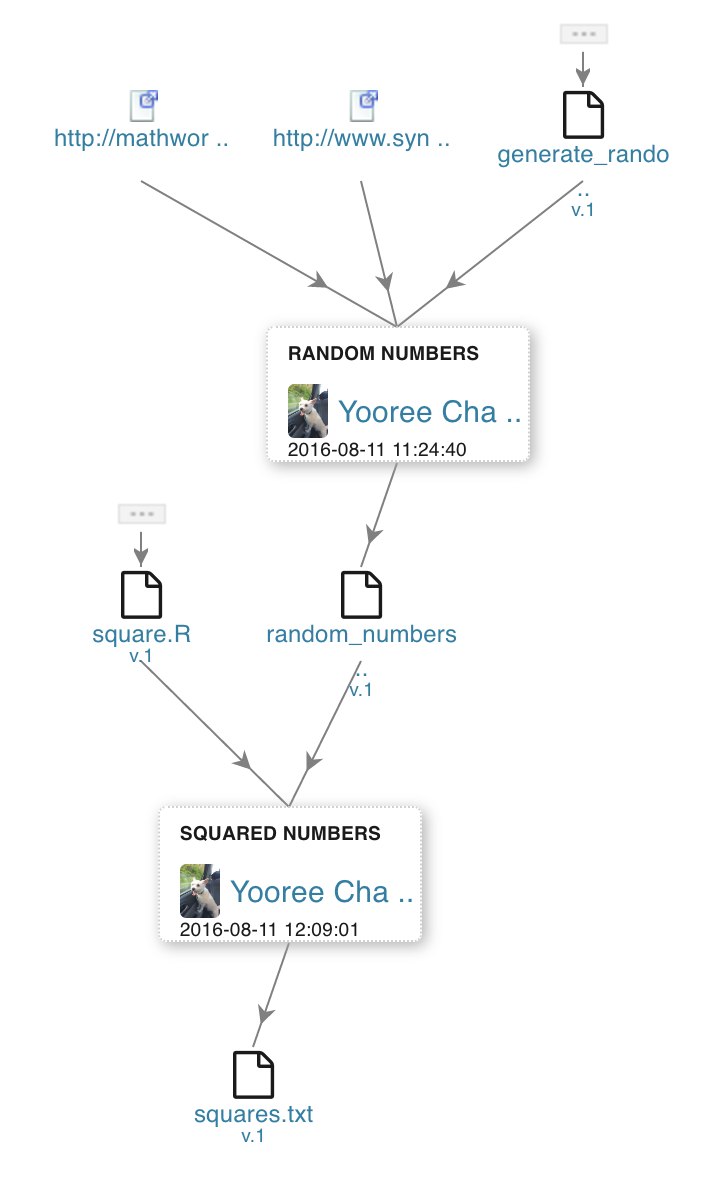
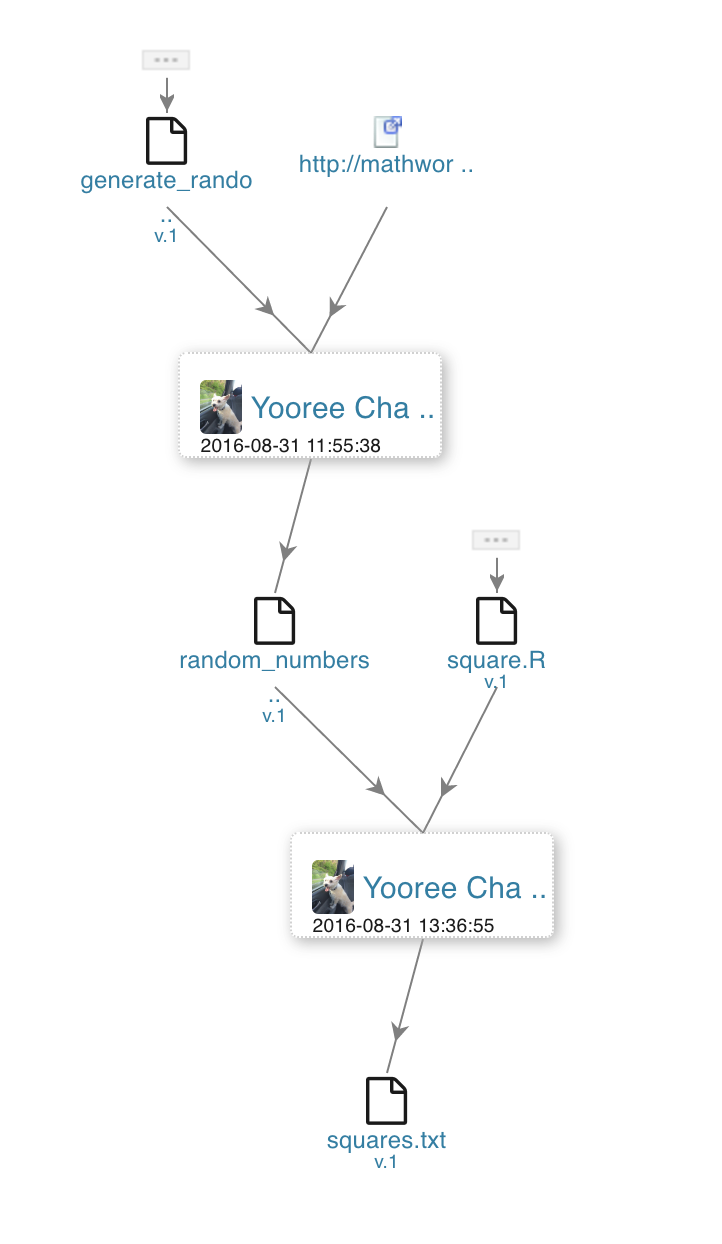
updated provenance article

diff --git a/articles/provenance.md b/articles/provenance.md
@@ -30,58 +30,58 @@ Below is a Synapse visualization of provenance relationships that is demonstrate
 
 <br/>
 
-### Step-by-step using command line, Python, R, or Web
+### Setting Provenance When Uploading a File
 
-* **Generate random data**
+Let's assume that you have a script that generates a list of normally distributed random numbers. This will mean that you have a script file that was used to create a data file and both will be uploaded into Synapse. 
+For example, you have an R script file called generate_random_data.R:
 
-Generate a file containing a list of normally distributed random numbers. This will mean that you have a script file that was used to create a data file to upload to Synapse. For example, using command line:
+```
+# generate_random_data.R
+rnorm(100)
+```
 
-
-````
-# running Python code
-python generate_random_data.py > random_numbers.txt
-
-# running R code
-Rscript generate_random_data.R > random_numbers.txt
-````
+And you've saved the output to a data file called random_numbers.txt
 
 
-Now we have the script: `generate_random_data.py` and the file it generated: `random_numbers.txt`.
+```
+# Using command line to save R script output to file
+Rscript generate_random_numbers.R > random_numbers.txt
+```
 
-* **Add Synapse entities**
 
-For this example, we'll assume the project already exists (syn7118141). We'll add our code and data files to this project, or in Synapse terminology, the project will be the parent of the new entities. 
+#### Add the script file to Synapse
+
+For this example, we'll assume that the `Project` already exists ([*Wondrous Research Example* : syn1901847](https://www.synapse.org/#!Synapse:syn1901847/files/)). We'll add our code file and data file to this project, or in Synapse terminology, the project will be the parent of the new entities. 
 
 {% tabs %}
 
 {% tab Command %}
 {% highlight bash %}
 # Add the script to Synapse
-synapse add -description "A script that generates normally distributed random numbers" -parentId syn7118141 generate_random_data.py
-
-# Add the data file to Synapse
-synapse add random_numbers.txt -description "A few normally distributed random numbers" -parentId syn7118141
+synapse add generate_random_data.py -parentId syn1901847 
 {% endhighlight %}
 {% endtab %}
 
 
 {% tab Python %}
 {% highlight python %}
-# Add the script to Synapse
-file = File(path="generate_random_numbers.py", parent="syn7118141", synapseStore=True, description="A script that generates normally distributed random numbers")
+import synpaseclient
+syn = synapseclient.login()
 
-# Add the data file to Synapse
-file = File(path="random_numbers.txt", parent="syn7118141", synapseStore=True, description="A few normally distributed random numbers")
+# Add the script to Synapse
+script_file = File(path="generate_random_numbers.py", parent="syn1901847")
+script_file = syn.store(script_file)
 {% endhighlight %}
 {% endtab %}
 
 {% tab R %}
 {% highlight r %}
-# Add the script to Synapse
-file = File(path="generate_random_numbers.R", parentId="syn7118141", synapseStore=True, description="A script that generates normally distributed random numbers")
+require(synapseClient)
+synapseLogin()
 
-# Add the data file to Synapse
-file = File(path="random_numbers.txt", parentId="syn7118141", synapseStore=True, description="A few normally distributed random numbers")
+# Add the script to Synapse
+script_file <- File(path="generate_random_numbers.R", parentId="syn1901847")
+script_file <- synStore(script_file)
 {% endhighlight %}
 {% endtab %}
 
@@ -92,44 +92,167 @@ Navigate to the **Files** tab on the project and click on **Upload or Link to Fi
 {% endtabs %}
 
 <br/>
+As you upload files onto Synapse, the new entity's synId will be provided. For this example, the new synId for the uploaded script file will be `syn7205215`. 
 
-As you upload files onto Synapse, the new entity's synId will be provided. For this example, the new synId for the uploaded script file will be `syn7118143` and for the data file will be `syn7118147`. 
+```
+##################################################
+ Uploading file to Synapse storage 
+##################################################
+Uploading [--------------------]0.00%   0.0bytes/29.0bytes  generate_random_dataUploading [####################]100.00%   29.0bytes/29.0bytes (14.0bytes/s) generate_random_data.R Done...
+    Created/Updated entity: syn7205215	generate_random_data.R
+```
 
-{% include note.html content="Currently the web application does not support setting provenance when uploading a file." %}
 
-* **Provenance**
+#### Add Provenance
+As the random_numbers.txt file was generated from the above script we are going to specify this using provenance. 
 
-There are a couple ways to set provenance information for a Synapse entity. The `used` and `executed` arguments specify resources used and code executed in the process of creating the entity. Code can be stored in Synapse or, better yet, linked by URL to a source code versioning system like Github or SVN.
-As an example, we'll specify 3 somewhat contrived sources of provenance:    
-   1. synapse entity, syn7118143 (the script)     
-   2. URL to a page describing normal distributions     
-   3. And entity in Synapse specified by a local path (http://www.synapse.org/#!Synapse:syn1738330, or simply, #!Synapse:syn1738330)
+There are a couple ways to set provenance information for a Synapse entity. The `used` and `executed` arguments specify resources used and code executed in the process of creating the entity. Code can be stored in Synapse(as we did in the previous step) or, better yet, linked by URL to a source code versioning system like GitHub or SVN. As an example, we'll specify 2 somewhat contrived sources of provenance:
 
+1. Synapse entity by synId: syn7205215 
+2. URL to a page describing [normal distributions](http://mathworld.wolfram.com/NormalDistribution.html){:target="_blank"}
+
+<br/>
+
+{% include note.html content="Currently, the web client does not support setting provenance when uploading a file." %}
 
 {% tabs %}
 
 {% tab Command %}
 {% highlight bash %}
-synapse set-provenance -id syn7118147 -executed syn7118143 -used http://mathworld.wolfram.com/NormalDistribution.html 'http://www.synapse.org/#!Synapse:syn1738330' -name "Random numbers"
+# Set provenance using synId of the uploaded script (syn7205215) and the website referenced
+synapse add random_numbers.txt -parentId syn1901847 -executed syn7205215 -used http://mathworld.wolfram.com/NormalDistribution.html 
+
+# Alternatively in the command line client, you can specify a local path to a file in provenance if it has already been uploaded 
+synapse add random_numbers.txt -parentId syn1901847 -executed ./generate_random_data.py -used http://mathworld.wolfram.com/NormalDistribution.html 
 {% endhighlight %}
 {% endtab %}
 
 
 {% tab Python %}
 {% highlight python %}
-file = syn.store(file, executed="syn7118143", used=["http://mathworld.wolfram.com/NormalDistribution.html", "#!Synapse:syn1738330"], activityName="Random numbers")
+# Set provenance for data file generated by the script file
+data_file = File(path="random_numbers.txt", parent="syn1901847")
+data_file = syn.store(data_file, executed="syn7205215", used="http://mathworld.wolfram.com/NormalDistribution.html")
+{% endhighlight %}
+
+{% endtab %}
+
+{% tab R %}
+{% highlight r %}
+data_file <- File(path="random_numbers.txt", parent="syn1901847")
+data_file <- synStore(data_file, executed="syn7205215", used="http://mathworld.wolfram.com/NormalDistribution.html")
+{% endhighlight %}
+{% endtab %}
+
+{% tab Web %}
+Currently, the web client does not support setting provenance when uploading a file.
+{% endtab %}
+
+{% endtabs %}
+
+Once the data file is uploaded, it will provide the synId assigned to it. In this case, the data file's synId is `syn7208917`.
+
+<br/>
+
+### Editing Provenance
+
+To continue our example above, we'll now add some new results from our initial data file. We're going to take the results in random_numbers.txt and square them. Here's our script to square the numbers:
+
+```
+# square.R
+
+# Get the file with the random numbers
+random_numbers <- synGet("syn7208917")
+random_numbers <- read.table(file=random_numbers@filePath, header=F, stringsAsFactors = F, row.names = 1)
+
+# Square the numbers
+lapply(random_numbers, function(x) x^2)
+
+```
+
+And we'll save the output to a data file, squares.txt, using command line:
+
+```
+# Using command line to save R script output to file
+Rscript square.R > squares.txt
+```
+
+
+
+#### Add the code entity 
+
+{% tabs %}
+
+{% tab Command %}
+{% highlight bash %}
+# Add code entity to Synapse
+synapse add square.R -parentId syn1901847
+{% endhighlight %}
+{% endtab %}
+
+
+{% tab Python %}
+{% highlight python %}
+# Add code entity to Synapse 
+code_file = File(path="square.R", parentId="syn1901847")
+code_file = syn.store(code_file)
 {% endhighlight %}
 {% endtab %}
 
 {% tab R %}
 {% highlight r %}
-file <- synStore(file, executed="syn121212", used=list("http://mathworld.wolfram.com/NormalDistribution.html", "#!Synapse:syn1738330"),  activityName = "Random numbers")
+# Add code entity to Synapse 
+code_file <- File(path="square.R", parentId="syn1901847")
+code_file <- synStore(code_file)
 {% endhighlight %}
 {% endtab %}
 
 {% tab Web %}
-To update the provenance on a file, navigate to the `File's` tab and click on the `File` that you would like to update. Click on the **Tools** dropdown in the upper right hand corner and select **Edit Provenance**. In the resulting pop-up, enter the relevant information. In this example **Name**: Random numbers and **Description**: A few normally distributed random numbers.
-To add the executed code, under **Executed** select **Add Synapse Reference** and enter **syn7118143** and under **Used**, select **Add External URL Reference** to add http://mathworld.wolfram.com/NormalDistribution.html and #!Synapse:syn1738330.
+Navigate to the **Files** tab on the project and click on **Upload or Link to File**. In the resulting pop-up, click the **Choose File** button and select the file(s) you would like to upload.
+{% endtab %}
+
+{% endtabs %}
+
+
+#### Add the data entity and set provenance
+
+{% tabs %}
+
+{% tab Command %}
+{% highlight bash %}
+# Add the data entity to Synapse
+synapse add squares.txt -parentId syn1901847 
+# Set the provenance for newly created entity syn7209166
+synapse set-provenance -id syn7209166 -executed syn7209078 -used syn7208917
+{% endhighlight %}
+{% endtab %}
+
+
+{% tab Python %}
+{% highlight python %}
+# Add the data file to Synapse
+data_file = File(path="squares.txt", parentId="syn1901847")
+data_file = syn.store(data_file)
+
+# Set provenance for newly created entity syn7209166
+data_file = syn.setProvenance(data_file, activity = Activity(used = "syn7208917", executed = "syn7209078"))
+{% endhighlight %}
+{% endtab %}
+
+{% tab R %}
+{% highlight r %}
+# Add the data file to Synapse
+data_file <- File(path="squares.txt", parentId="syn1901847")
+data_file <- synStore(data_file)
+
+# Set provenance for newly created entity syn7209166
+act <- Activity(name = "Squared numbers", used = "syn7208917", executed = "syn7209078")
+generatedBy(data_file) <- act
+{% endhighlight %}
+{% endtab %}
+
+{% tab Web %}
+To update the provenance on a file, navigate to the `File's` tab and click on the `File` that you would like to update. Click on the **Tools** dropdown in the upper right hand corner and select **Edit Provenance**. In the resulting pop-up, enter the relevant information. 
 
 <img src="/assets/images/editProvenance.png">
 
@@ -137,112 +260,29 @@ To add the executed code, under **Executed** select **Add Synapse Reference** an
 
 {% endtabs %}
 
-Alternatively, in command line, we could have specified `used` and `executed` arguments to the `synapse add` command, adding the new entity and setting its provenance in one step:
 
-````
-synapse add random_numbers.txt -parentId syn7118141 -description "A few normally distributed random numbers" -executed syn7118143 -used http://mathworld.wolfram.com/NormalDistribution.html 'http://www.synapse.org/#!Synapse:syn1738330'
-````
+### Getting and Viewing Provenance
 
-
-* **Computing derived data**
-
-Now, we'll derive some new results from our initial data file:
-For example, using command line:
-
-
-````
-# running Python code
-python square.py random_numbers.txt > squares.txt
-
-# running R code
-Rscript square.R random_numbers.txt > squares.txt
-````
-
-<br/>
-
-**Add the code entity:**
+To view the provenance relationships you've created:
 
 {% tabs %}
 
 {% tab Command %}
 {% highlight bash %}
-synapse add -parentid syn7118141 -description "A script that squares a list of numbers" square.py
+synapse get-provenance -id syn7209166
 {% endhighlight %}
 {% endtab %}
 
 
 {% tab Python %}
 {% highlight python %}
-file = File(path="square.py", parentId="syn7118141", synapseStore=True)
+syn.getProvenance("syn7209166")
 {% endhighlight %}
 {% endtab %}
 
 {% tab R %}
 {% highlight r %}
-file <- File(path="square.R", parentId="syn7118141", synapseStore=True)
-{% endhighlight %}
-{% endtab %}
-
-{% tab Web %}
-Navigate to the **Files** tab on the project and click on **Upload or Link to File**. In the resulting pop-up, click the **Choose File** button and select the file(s) you would like to upload.{% endtab %}
-
-{% endtabs %}
-
-<br/>
-
-**Add the list of squared numbers:**
-
-{% tabs %}
-
-{% tab Command %}
-{% highlight bash %}
-synapse add squares.txt -parentid syn7118141 -description "Squares of random numbers" -used syn7118147 -executed syn7118154 
-{% endhighlight %}
-{% endtab %}
-
-
-{% tab Python %}
-{% highlight python %}
-file = syn.store(file, executed="syn7118154", used="syn7118147", activityName = "Squaring")
-{% endhighlight %}
-{% endtab %}
-
-{% tab R %}
-{% highlight r %}
-file <- synStore(file, executed=list("syn987654"), used=list("232323"), activityName = "Squaring")
-{% endhighlight %}
-{% endtab %}
-
-{% tab Web %}
-Navigate to the **Files** tab on the project and click on **Upload or Link to File**. In the resulting pop-up, click the **Choose File** button and select the file(s) you would like to upload.{% endtab %}
-
-In Web, to set the provenance, you will first have to upload the file and then navigate to **Tools** and **Edit Provenance** to update/set the information.
-
-<img src="/assets/images/editProvenance2.png">
-
-{% endtabs %}
-
-<br/>
-
-**Now, show the provenance relationship you created:**
-
-{% tabs %}
-
-{% tab Command %}
-{% highlight bash %}
-synapse get-provenance -id syn7118162
-{% endhighlight %}
-{% endtab %}
-
-{% tab Python %}
-{% highlight python %}
-syn.getProvenance(file)
-{% endhighlight %}
-{% endtab %}
-
-{% tab R %}
-{% highlight r %}
-provenance <- generatedBy(file)
+provenance <- generatedBy("syn7209166")
 provenance
 {% endhighlight %}
 {% endtab %}
@@ -255,9 +295,7 @@ Navigate to the `File's` page to view its provenance. Clicking on the triple dot
 
 {% endtabs %}
 
-<br/>
-
-### Reusing an Activity for multiple files
+### Reusing an Provenance for Multiple Files
 
 An `Activity` is a Synapse object that helps keep track of what objects were 'used' in an analysis step ... as well as what objects were generated. Thus, all relationships between Synapse objects and an `Activity` are governed by dependencies. That is, an `Activity` needs to know what it 'used' -- and outputs need to know what `Activity` they were 'generatedBy'. A couple of points for clarity:
 
